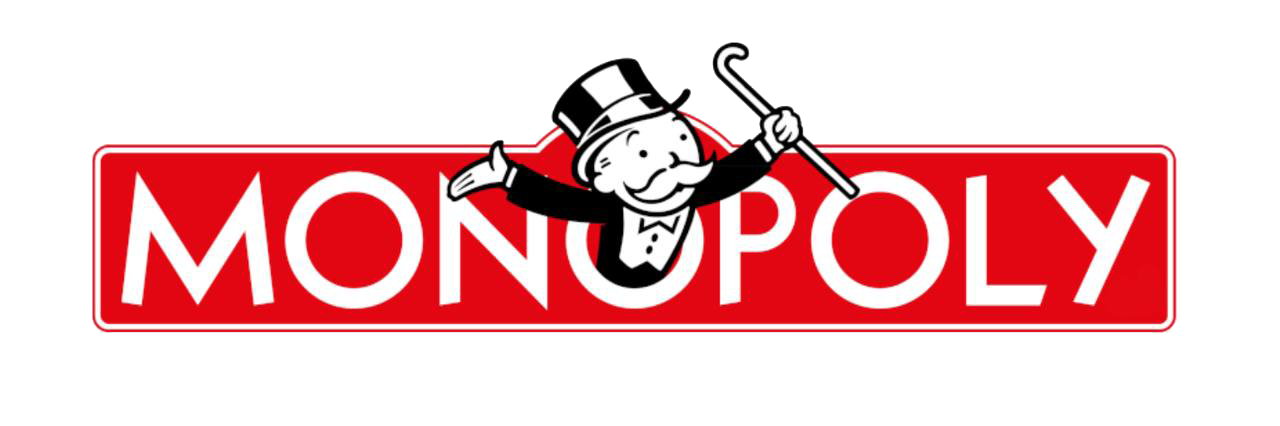
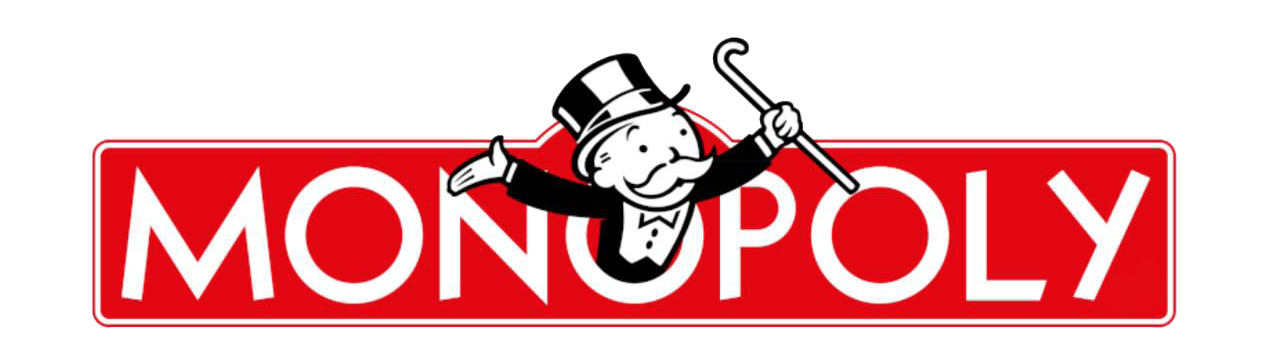
homepage updated

diff --git a/app/HeroSection.jsx b/app/HeroSection.jsx
@@ -33,9 +33,9 @@ const HeroSection = () => {
       </div>
 
       {/* Content */}
-      <div className="relative z-10 mx-auto px-4 container flex flex-col-reverse md:flex-row items-center justify-between gap-12 md:gap-20">
-        <div className="left z-10 bg-gray-900/30 border-4 border-green-500 backdrop-blur-sm sm:p-10 p-4 rounded-lg flex flex-col items-center md:items-start text-center md:text-left">
-          <h1 className="text-4xl md:text-6xl font-bold text-orange-600 drop-shadow-lg">
+      <div className="relative z-10 mx-auto px-4 container flex flex-col-reverse md:flex-row items-center justify-between gap-16 md:gap-20">
+        <div className="left z-10 flex flex-col items-center border-orange-400 md:border-l-4 border-t-4 md:border-t-0 sm:ps-6 px-3 sm:px-0 md:bg-gradient-to-r bg-gradient-to-b from-gray-800/50 to-transparent pb-5 pt-3 rounded-lg md:items-start text-center md:text-left">
+          <h1 className="text-4xl md:text-7xl font-bold bg-clip-text text-transparent bg-gradient-to-r from-yellow-400 to-orange-500 drop-shadow-lg leading-[1.2] md:leading-[1.1]">
             Own the Board, Rule the Crypto World!
           </h1>
           <p className="text-lg md:text-xl text-gray-50 mt-4 max-w-3xl">
@@ -45,33 +45,53 @@ const HeroSection = () => {
 
           {/* Contract Address with Copy Icon */}
           <div
-            className={`mt-6 flex flex-col md:flex-row items-center justify-center gap-2 md:text-xl text-base text-slate-50 cursor-pointer transition ${
-              copied ? "bg-blue-500/80" : "bg-purple-500/80"
-            } p-3 sm:p-0 sm:ps-3 overflow-hidden rounded`}
+            className={`mt-6 flex flex-col md:flex-row items-center justify-center gap-0 md:text-xl text-base text-slate-50 cursor-pointer transition-all duration-300 ${
+              copied
+                ? "border-green-400 bg-green-500/20"
+                : "border-purple-400 bg-purple-500/20"
+            } p-0 overflow-hidden rounded-lg border-2 shadow-[0_4px_6px_-1px_rgba(0,0,0,0.1),0_2px_4px_-1px_rgba(0,0,0,0.06)] hover:shadow-lg`}
             onClick={handleCopy}
           >
-            <span className="break-all fira-code">CA: {contractAddress}</span>
-            <div className="bg-orange-500 rounded h-full p-3">
+            {/* "CA:" Label with Background Color */}
+            <div
+              className={`px-4 sm:py-4 py-2 ${
+                copied ? "bg-green-500/80" : "bg-purple-500/80"
+              } font-bold w-full sm:w-auto`}
+            >
+              CA:
+            </div>
+
+            {/* Contract Address Text */}
+            <span className="break-all fira-code px-4 sm:py-4 py-2 flex-1">
+              {contractAddress}
+            </span>
+
+            {/* Copy Icon Container */}
+            <div
+              className={`rounded-lg sm:mr-2 mb-2 sm:mb-0 h-full p-3 transition-all duration-300 ${
+                copied ? "bg-green-500" : "bg-purple-500"
+              } shadow-inner hover:shadow-md`}
+            >
               {copied ? (
-                <Check className="text-white" />
+                <Check className="text-white w-5 h-5" />
               ) : (
-                <Copy className="text-white" />
+                <Copy className="text-white w-5 h-5" />
               )}
             </div>
           </div>
 
           {/* Call-to-Action Buttons */}
-          <div className="mt-8 flex flex-col md:flex-row justify-center gap-6">
+          <div className="mt-8 w-full sm:w-auto flex flex-col md:flex-row justify-center gap-6">
             <a
               href="https://dexscreener.com/solana/6rs2so7t41lawwtvd3cnpdrlqptfbuopuvvcqpqkmoon"
               target="_blank"
-              className="bg-green-600 flex justify-center items-center gap-2 text-white px-5 py-3 rounded-md shadow-lg font-semibold hover:bg-green-700 transition"
+              className="bg-green-600 hover:gap-3 transition-all flex justify-center items-center gap-2 text-white px-5 py-3 rounded-md shadow-lg font-semibold hover:bg-green-700"
             >
               <TicketCheckIcon /> Buy Now
             </a>
             <a
               href="#leaderboard"
-              className="bg-red-600 flex justify-center items-center gap-2 text-white px-5 py-3 rounded-md shadow-lg font-semibold hover:bg-red-700 transition"
+              className="bg-red-600 hover:gap-3 transition-all flex justify-center items-center gap-2 text-white px-5 py-3 rounded-md shadow-lg font-semibold hover:bg-red-700"
             >
               <Trophy /> Explore Leaderboard
             </a>
@@ -79,11 +99,11 @@ const HeroSection = () => {
         </div>
 
         {/* Spinning Coin Animation */}
-        <div className="relative flex justify-center w-full md:max-w-[40%] mb-10 md:mb-0">
+        <div className="relative flex justify-center w-full md:max-w-[40%] mb-16 md:mb-20">
           {/* Monopoly Board */}
-          <div className="absolute md:-top-[180px] -top-20 transform md:h-[200%] md:w-[200%]">
+          <div className="absolute md:-top-12 -top-8 transform md:h-[200%] md:w-[200%]">
             <Image
-              src="/monopoly-board.png"
+              src="/monopoly board 3d only.png"
               alt="Monopoly Board"
               width={500}
               height={500}

diff --git a/app/FaqPage.jsx b/app/FaqPage.jsx
@@ -1,5 +1,6 @@
 "use client";
 
+import { ChevronDown } from "lucide-react";
 import { useState } from "react";
 
 const FaqPage = () => {
@@ -23,41 +24,51 @@ const FaqPage = () => {
   };
 
   return (
-    <div className="relative bg-gradient-to-br from-gray-800 to-gray-700 py-12 md:py-[150px] px-4">
-      <div id="faq" className="absolute -top-10"></div>
-      <h2 className="md:text-4xl text-3xl font-bold text-center text-slate-100 mb-8">
-        Frequently Asked Questions
-      </h2>
-      <div className="container max-w-4xl mx-auto space-y-4">
-        {faqs.map((faq, index) => (
-          <div
-            key={index}
-            className="border border-gray-600 rounded-lg overflow-hidden"
-          >
-            <button
-              onClick={() => toggleFAQ(index)}
-              className="w-full text-left bg-gray-700 px-4 py-3 text-slate-100 flex justify-between items-center"
+    <section className="bg-gradient-to-br from-[#0F0F1B] to-[#1A1A2E] sm:py-20 py-10 px-4">
+      <div id="faq" className="container scroll-mt-20 max-w-4xl mx-auto">
+        <h2 className="text-4xl md:text-5xl font-bold text-center text-transparent bg-clip-text bg-gradient-to-r from-purple-400 to-pink-600 mb-12">
+          Frequently Asked Questions
+        </h2>
+        <div className="space-y-6">
+          {faqs.map((faq, index) => (
+            <div
+              key={index}
+              className="bg-[#1E1E2F] border border-[#2A2A3D] rounded-xl overflow-hidden transition-all duration-300 hover:border-[#3A3A4D]"
             >
-              <span className="font-semibold">{faq.question}</span>
-              <span
-                className={`transform transition-transform ${
-                  openIndex === index ? "rotate-180" : "rotate-0"
+              <button
+                onClick={() => toggleFAQ(index)}
+                className="w-full text-left p-6 flex justify-between items-center focus:outline-none"
+                aria-expanded={openIndex === index}
+                aria-controls={`faq-answer-${index}`}
+              >
+                <span className="text-lg md:text-xl font-semibold text-slate-100">
+                  {faq.question}
+                </span>
+                <span
+                  className={`transform transition-transform duration-300 text-purple-400 ${
+                    openIndex === index ? "rotate-180" : "rotate-0"
+                  }`}
+                >
+                  <ChevronDown />
+                </span>
+              </button>
+              <div
+                id={`faq-answer-${index}`}
+                className={`transition-all duration-300 overflow-hidden ${
+                  openIndex === index
+                    ? "max-h-[500px] opacity-100"
+                    : "max-h-0 opacity-0"
                 }`}
               >
-                ▼
-              </span>
-            </button>
-            <div
-              className={`transition-max-height duration-300 overflow-hidden ${
-                openIndex === index ? "max-h-[200px] p-4" : "max-h-0"
-              } bg-gray-600 text-slate-200`}
-            >
-              {faq.answer}
+                <div className="px-6 border-t-2 border-purple-500 py-6 text-slate-300">
+                  {faq.answer}
+                </div>
+              </div>
             </div>
-          </div>
-        ))}
+          ))}
+        </div>
       </div>
-    </div>
+    </section>
   );
 };
 

diff --git a/app/Footer.jsx b/app/Footer.jsx
@@ -1,39 +1,59 @@
+import Image from "next/image";
 import Link from "next/link";
 
 const Footer = () => {
   return (
-    <footer className="relative text-white py-20">
+    <footer className="relative text-white py-10">
       <div
         className="absolute -z-10 inset-0 bg-cover bg-center"
         // style={{ backgroundImage: "url('/modern-train.avif')" }}
-        style={{ backgroundImage: "url('/support.webp')" }}
+        style={{ backgroundImage: "url('/suppdort.webp')" }}
       >
-        <div className="bg-gradient-to-br from-gray-800/50 to-gray-700/50 h-full w-full"></div>
+        <div className="bg-gradient-to-b from-orange-600 to-red-800 h-full w-full"></div>
       </div>
       <div className="container mx-auto px-4 text-center">
+        <Image
+          height={50}
+          width={800}
+          src={"/monopoly-banner.png"}
+          alt="monopoly banner"
+          className="mx-auto w-96 h-auto"
+        />
+
         {/* Social Media Links */}
-        <div className="flex justify-center gap-6 mb-4 text-lg">
-          <Link
-            href="https://dexscreener.com/solana/6rs2so7t41lawwtvd3cnpdrlqptfbuopuvvcqpqkmoon"
-            target="_blank"
-            className="hover:text-yellow-400 transition"
-          >
-            Dexscreener
-          </Link>
-          <Link
-            href="https://t.me/monopolymemecoin"
-            target="_blank"
-            className="hover:text-yellow-400 transition"
-          >
-            Telegram
-          </Link>
-          <Link
-            href="https://x.com/Collect2PassGo"
-            target="_blank"
-            className="hover:text-yellow-400 transition"
-          >
-            Twitter
-          </Link>
+        <div className="flex justify-center gap-6 mb-6 text-lg">
+          {[
+            {
+              href: "https://dexscreener.com/solana/6rs2so7t41lawwtvd3cnpdrlqptfbuopuvvcqpqkmoon",
+              src: "/icons/dex-screener.png",
+              alt: "Dex Screener",
+            },
+            {
+              href: "https://t.me/monopolymemecoin",
+              src: "/icons/telegram.jpg",
+              alt: "Telegram",
+            },
+            {
+              href: "https://x.com/Collect2PassGo",
+              src: "/icons/logo-x-icon.avif",
+              alt: "Twitter/X",
+            },
+          ].map((item, index) => (
+            <Link
+              key={index}
+              href={item.href}
+              target="_blank"
+              className="hover:text-yellow-400 transition flex flex-col gap-1 justify-center items-center"
+            >
+              <Image
+                height={48}
+                width={48}
+                src={item.src}
+                alt={item.alt}
+                className="rounded-md w-12 shadow-lg hover:scale-105 transition-all border-2 h-12 sm:size-14 aspect-square"
+              />
+            </Link>
+          ))}
         </div>
 
         {/* Disclaimer */}
